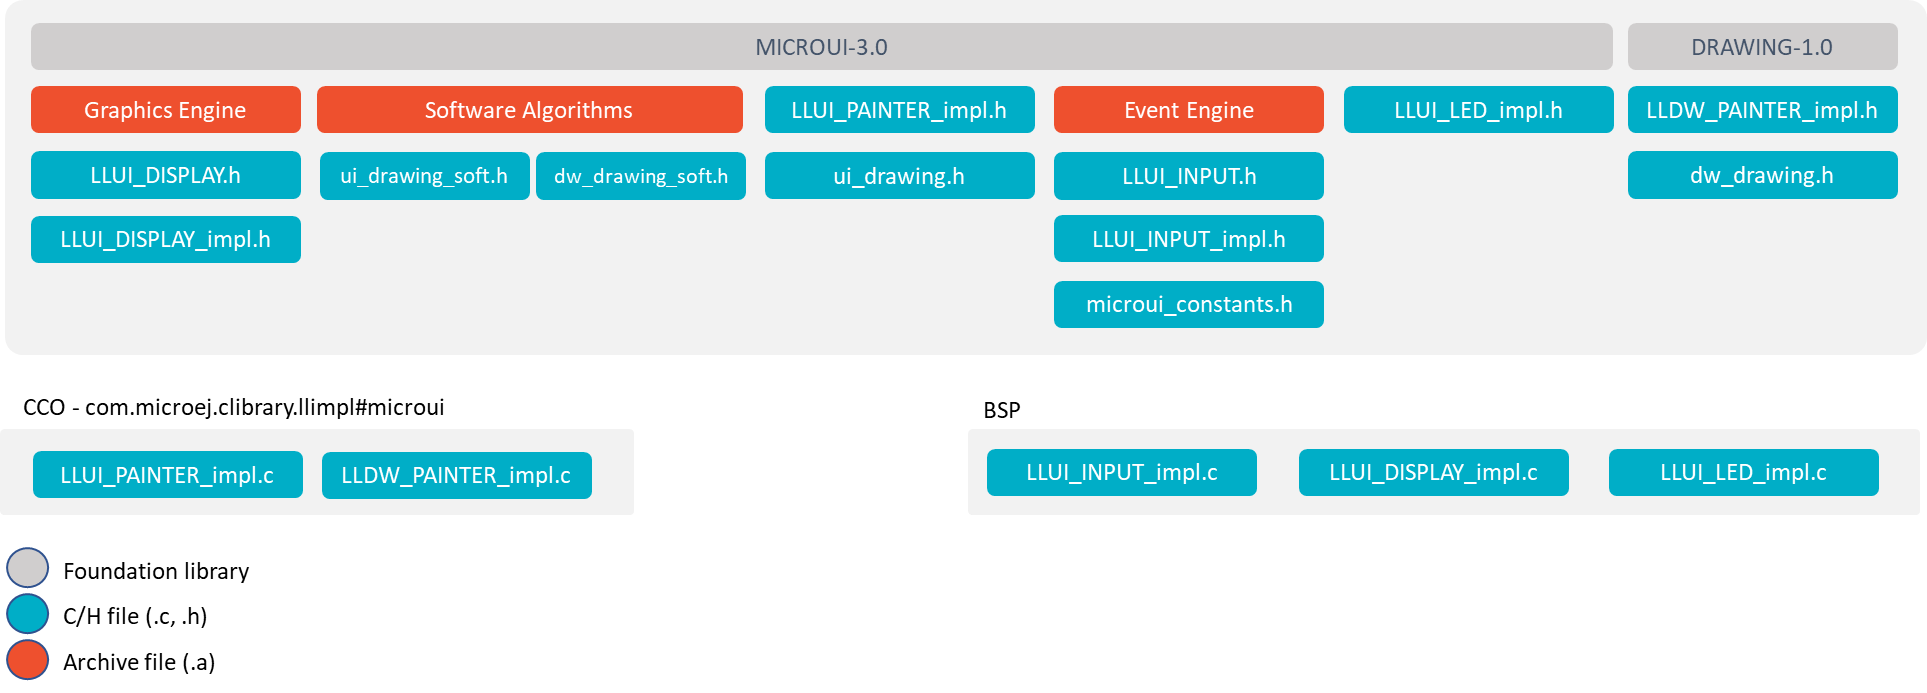
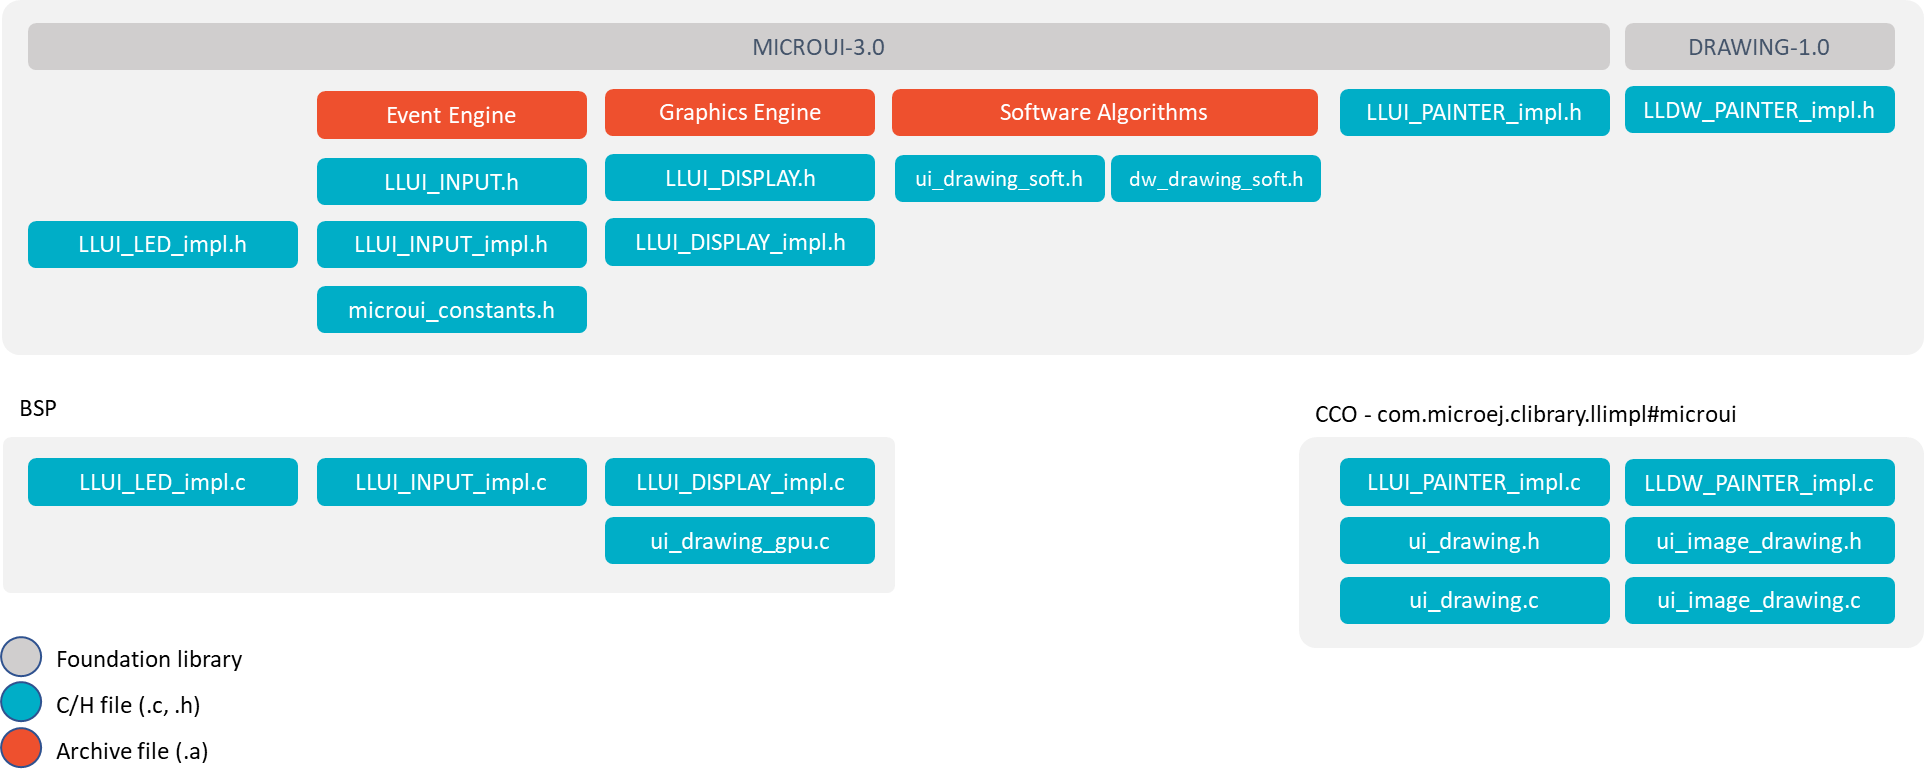
review llapi pictures

diff --git a/VEEPortingGuide/uiLowLevel.rst b/VEEPortingGuide/uiLowLevel.rst
@@ -17,7 +17,7 @@ For the simulator, some Front Panel interfaces and classes allow to specify the 
 Embedded Platform
 =================
 
-.. figure:: images/ui_llapi_emb.*
+.. figure:: images/ui_llapi_emb.png
    :alt: MicroUI Abstraction Layer
    :width: 100.0%
    :align: center
@@ -34,16 +34,23 @@ The specification of header files names is:
 There are some exceptions :
 
 - ``LLUI_PAINTER_impl.h`` and ``LLDW_PAINTER_impl.h`` list a subpart of UI Graphics Engine functions to implement (all MicroUI native drawing methods).
-- ``ui_drawing.h`` and ``dw_drawing.h`` list all drawing methods the platform can implement.
 - ``ui_drawing_soft.h`` and ``dw_drawing_soft.h`` list all drawing methods implemented by the Graphics Engine.
 - ``microui_constants.h`` is the file generated by the MicroUI Static Initializer (see :ref:`section_static_init`).
+
+The :ref:`MicroUI C module <section_ui_cco>` provides a default implementation of the UI Pack Abstraction Layer API:
+
+- ``LLUI_PAINTER_impl.c`` and ``LLDW_PAINTER_impl.c`` manage the synchronization with the Graphics Engine and redirect all drawings to ``ui_drawing.h`` and ``ui_image_drawing.h``.
+- ``ui_drawing.h`` and ``ui_image_drawing.h`` list all drawing methods the platform can implement.
+- ``ui_drawing.c`` and ``ui_image_drawing.c`` are the default implementation of ``ui_drawing.h`` and ``ui_image_drawing.h`` that redirects all drawings to ``ui_drawing_soft.h`` and ``dw_drawing_soft.h``.
+
+The BSP has to implement ``LLUI_xxx`` header files and optionally ``ui_drawing.h`` and ``ui_image_drawing.h`` (to draw using a GPU and/or to draw in a custom BufferedImage).
 
 All header files and their aims are described in next UI engines chapters:  :ref:`LED<section_leds_llapi>`, :ref:`Input<section_input_llapi>` and :ref:`Display<section_display_llapi>`.
 
 Simulator
 =========
 
-.. figure:: images/ui_llapi_sim.*
+.. figure:: images/ui_llapi_sim.png
    :alt: MicroUI Abstraction Layer
    :width: 100.0%
    :align: center

diff --git a/VEEPortingGuide/uiInput.rst b/VEEPortingGuide/uiInput.rst
@@ -12,7 +12,7 @@ The Input module contains the C part of the MicroUI implementation which manages
 
 -  the C part of MicroUI input API (a built-in C archive) called Input Engine,
 
--  an implementation of a Abstraction Layer APIs for the input devices
+-  an implementation of Abstraction Layer APIs for the input devices
    that must be provided by the BSP (see :ref:`LLINPUT-API-SECTION`).
 
 Functional Description
